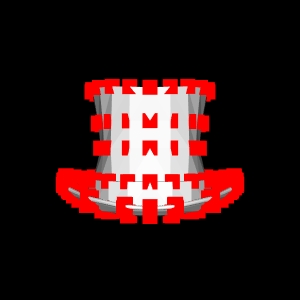
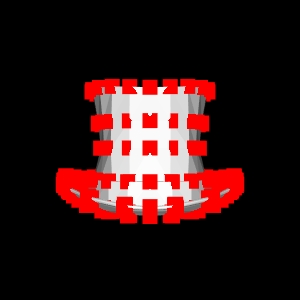
Merge pull request #144 from Geode-solutions/fix/highlight-edges
Fix/highlight edges

Pull request: Fix/highlight edges

diff --git a/src/opengeodeweb_viewer/object/object_methods.py b/src/opengeodeweb_viewer/object/object_methods.py
@@ -167,11 +167,14 @@ class VtkObjectView(VtkView):
     ) -> None:
         mapper.SetInputDataObject(input_dataset)
         mapper.ScalarVisibilityOff()
+        mapper.SetResolveCoincidentTopologyToPolygonOffset()
         prop = actor.GetProperty()
         prop.SetColor(0.235, 0.6, 0.514)
-        prop.SetLineWidth(5)
+        prop.SetLineWidth(3)
         prop.SetPointSize(14)
         prop.SetRenderPointsAsSpheres(True)
-        prop.SetLighting(False)
+        prop.SetLighting(True)
+        prop.SetEdgeVisibility(True)
+        prop.SetEdgeColor(0.12, 0.35, 0.30)
         actor.SetMapper(mapper)
         actor.VisibilityOff()